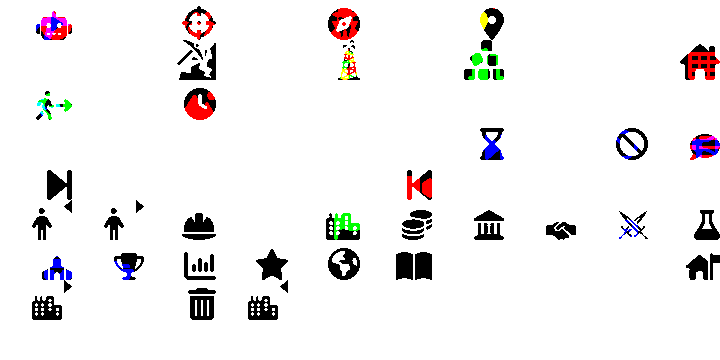
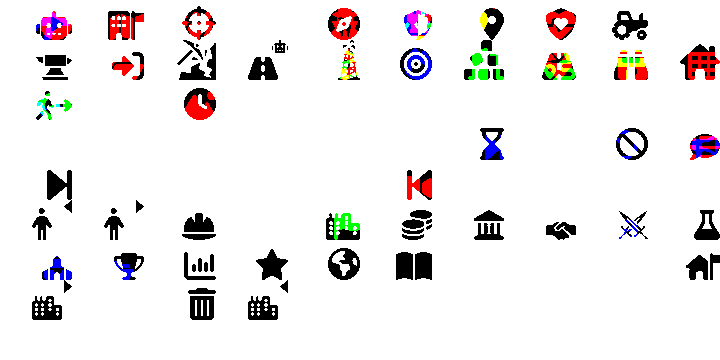
Draw the Civilization IV keys that several units share
The game's XML gives B, F, S, R, I, L, H, P, N, K, Shift+P and Alt+R to
actions of different units. Each key now shows the meaning it has for the
common case, as the Freeciv set does: found a city, fortify, sentry, build
a road or a railroad, build a farm, load, fortify until healed, ping the
map, build a trade network, build a workshop, pillage, and route to.

- SOURCES.md lists the other units' actions for each key as exceptions,
  and why the drawn meaning covers the common case.
- Warlords and the base game give each key the same meaning, so both sets
  draw all twelve keys.
- Shift+W and Alt+C stay blank: no one meaning covers the common case.
- Twelve new Font Awesome and game-icons.net icons, credited in
  SOURCES.md. N is the road with the robot of A.

Claude-Session: https://claude.ai/code/session_01U989duoKHjSn5t9U1ruejA

diff --git a/polyhost/res/overlay_sources/civ4/fetch_icons.py b/polyhost/res/overlay_sources/civ4/fetch_icons.py
@@ -43,6 +43,14 @@ ICONS = {
     "forceendturn": "fa:forward-fast",
     "wait": "fa:clock",
     # Unit orders
+    "foundcity": "fa:building-flag",
+    "fortify": "fa:shield-halved",
+    "sentry": "fa:binoculars",
+    "heal": "fa:shield-heart",
+    "loadunit": "fa:right-to-bracket",
+    "pillage": "fa:fire",
+    "ping": "fa:bullseye",
+    "routeto": "fa:route",
     "goto": "fa:location-dot",
     "automate": "fa:robot",
     "automoves": "fa:circle-play",
@@ -50,6 +58,9 @@ ICONS = {
     "explore": "fa:compass",
     "improvecity": "fa:person-digging",
     "mine": "gi:lorc/mining",
+    "road": "fa:road",
+    "farm": "fa:tractor",
+    "workshop": "gi:lorc/anvil",
     "cottage": "fa:house-chimney",
     "quarry": "fa:cubes-stacked",
     "fort": "fa:chess-rook",
@@ -97,7 +108,8 @@ ICONS = {
 
 # Sources of the composed icons, rendered as `_<stem>.png` and not drawn on a key.
 PARTS = {"_bolt": "fa:bolt", "_person": "fa:person", "_city": "fa:city",
-         "_unload": "fa:person-walking-arrow-right", "_cancel": "fa:ban"}
+         "_unload": "fa:person-walking-arrow-right", "_cancel": "fa:ban",
+         "_robot": "fa:robot"}
 
 # Key area of each icon, from civ4_bts.yaml; the default is 40 x 40.
 SIZES = {"domestic": (34, 40), "financial": (34, 40), "civics": (34, 40), "freecolony": (34, 40),
@@ -119,15 +131,19 @@ INK = {"domestic": (34, 32), "financial": (30, 30), "civics": (30, 30), "freecol
        "save": (30, 30), "load": (36, 30), "options": (32, 32), "retire": (36, 32),
        "worldbuilder": (36, 32), "espionage": (30, 34), "diplomacy": (28, 34),
        "details": (36, 28), "gamedetails": (32, 32), "chatteam": (30, 30),
-       "chatall": (30, 28), "eventlog": (30, 28), "unload": (36, 32)}
+       "chatall": (30, 28), "eventlog": (30, 28), "unload": (36, 32),
+       "foundcity": (36, 32), "fortify": (28, 32), "sentry": (34, 30), "heal": (30, 32),
+       "loadunit": (32, 30), "pillage": (28, 32), "ping": (32, 32), "routeto": (34, 32),
+       "road": (34, 30), "farm": (36, 30), "workshop": (36, 28)}
 
 # Composed icons: a glyph with a mark, or a glyph drawn twice.
-# stem -> (glyph, mark, key area). A mark is "=", "ALL", "bolt", ">" or "<".
+# stem -> (glyph, mark, key area). A mark is "=", "ALL", "bolt", "robot", ">" or "<".
 BADGED = {"gototype": ("goto", "=", (40, 40)), "gotoall": ("goto", "ALL", (40, 40)),
           "quicksave": ("save", "bolt", (30, 40)), "quickload": ("load", "bolt", (34, 40)),
           "nextcity": ("_city", ">", (40, 40)), "prevcity": ("_city", "<", (40, 40)),
           "nextunit": ("_person", ">", (40, 40)), "prevunit": ("_person", "<", (40, 40)),
-          "unloadall": ("_unload", "ALL", (40, 40)), "cancelall": ("_cancel", "ALL", (40, 40))}
+          "unloadall": ("_unload", "ALL", (40, 40)), "cancelall": ("_cancel", "ALL", (40, 40)),
+          "network": ("road", "robot", (40, 40))}
 TWICE = {"savegroup": "save"}
 
 # The ESC mark: CIV IV in Cinzel Bold (SIL OFL 1.1), centred on the whole cell.
@@ -172,6 +188,8 @@ def _chevron(right: bool, h: int = 13):
 def _mark(kind: str):
     if kind == "bolt":
         return ottd._fit(Path(OUT) / "_bolt.png", (10, 15))
+    if kind == "robot":
+        return ottd._fit(Path(OUT) / "_robot.png", (16, 13))
     if kind in "<>":
         return _chevron(kind == ">")
     if kind == "=":

diff --git a/polyhost/res/overlay_sources/civ4/SOURCES.md b/polyhost/res/overlay_sources/civ4/SOURCES.md
@@ -6,8 +6,8 @@ writes `civ4_classic.yaml` from `civ4_bts.yaml`.
 
 | Set | Loads for |
 |---|---|
-| `civ4_bts_template` (2 files, 76 keys) | Beyond the Sword: `civ4beyondsword` on Windows, `civ4beyondsword.exe` under Wine, `steam_app_8800` under Proton |
-| `civ4_classic_template` (2 files, 69 keys) | The base game and Warlords: `civilization4` and `civ4warlords` on Windows, `civilization4.exe` and `civ4warlords.exe` under Wine, `steam_app_3900` and `steam_app_3990` under Proton |
+| `civ4_bts_template` (2 files, 88 keys) | Beyond the Sword: `civ4beyondsword` on Windows, `civ4beyondsword.exe` under Wine, `steam_app_8800` under Proton |
+| `civ4_classic_template` (2 files, 81 keys) | The base game and Warlords: `civilization4` and `civ4warlords` on Windows, `civilization4.exe` and `civ4warlords.exe` under Wine, `steam_app_3900` and `steam_app_3990` under Proton |
 
 The executable names `Civilization4.exe`, `Civ4Warlords.exe` and
 `Civ4BeyondSword.exe` are from the Lutris installer for the GOG edition
@@ -33,12 +33,12 @@ that branch changed them (`git log` of each file lists only official updates).
 
 | File (Beyond the Sword) | Keys drawn |
 |---|---|
-| `BtS/Assets/XML/Units/CIV4ControlInfos.xml` | F1 to F12, Shift+F7, Alt+F1, Shift+F5, Shift+F8, Ctrl+E, Shift+D, Enter, Shift+Enter, W, Space (end turn), C, Ctrl+C, Ctrl+H, Insert, Home, End, `.`, `,`, `/`, `\`, Ctrl+`\`, Ctrl+A, Ctrl+T, Ctrl+B, Ctrl+Y, Ctrl+R, Alt+U, Alt+O, Alt+F, Ctrl+Alt+F, Alt+Shift+F, Ctrl+Left, Ctrl+Right, Ctrl+S, Ctrl+Alt+S, Ctrl+L, Ctrl+O, Alt+Q, Ctrl+W, Ctrl+Shift+H, Alt+D, Alt+Shift+D, Alt+S, Tab, Shift+Tab, Ctrl+Tab |
-| `BtS/Assets/XML/Units/CIV4MissionInfos.xml` | Space (skip the unit's turn) |
-| `Civ4/Assets/XML/Units/CIV4CommandInfos.xml` (Beyond the Sword has no copy and loads the base game's) | U, Shift+U, Delete, Backspace, Shift+Backspace |
-| `BtS/Assets/XML/Units/CIV4AutomateInfos.xml` | A, E, Ctrl+Shift+C |
-| `BtS/Assets/XML/Interface/CIV4InterfaceModeInfos.xml` | G, Ctrl+G, Alt+G, Shift+A |
-| `BtS/Assets/XML/Units/CIV4BuildInfos.xml` | M, T, Q, O, Ctrl+F, Shift+F |
+| `BtS/Assets/XML/Units/CIV4ControlInfos.xml` | F1 to F12, Shift+F7, Alt+F1, Shift+F5, Shift+F8, Ctrl+E, Shift+D, Enter, Shift+Enter, W, Space (end turn), C, Ctrl+C, Ctrl+H, Insert, Home, End, `.`, `,`, `/`, `\`, Ctrl+`\`, Ctrl+A, Ctrl+T, Ctrl+B, Ctrl+Y, Ctrl+R, Alt+U, Alt+O, Alt+F, Ctrl+Alt+F, Alt+Shift+F, Ctrl+Left, Ctrl+Right, Ctrl+S, Ctrl+Alt+S, Ctrl+L, Ctrl+O, Alt+Q, Ctrl+W, Ctrl+Shift+H, Alt+D, Alt+Shift+D, Alt+S, Tab, Shift+Tab, Ctrl+Tab, P |
+| `BtS/Assets/XML/Units/CIV4MissionInfos.xml` | Space (skip the unit's turn), B, F, H, S, Shift+P |
+| `Civ4/Assets/XML/Units/CIV4CommandInfos.xml` (Beyond the Sword has no copy and loads the base game's) | U, Shift+U, Delete, Backspace, Shift+Backspace, L |
+| `BtS/Assets/XML/Units/CIV4AutomateInfos.xml` | A, E, Ctrl+Shift+C, N |
+| `BtS/Assets/XML/Interface/CIV4InterfaceModeInfos.xml` | G, Ctrl+G, Alt+G, Shift+A, Alt+R |
+| `BtS/Assets/XML/Units/CIV4BuildInfos.xml` | M, T, Q, O, Ctrl+F, Shift+F, R, I, K |
 
 The labels follow the English text of each action's `<Description>`, from
 the game's `Assets/XML/Text/*.xml`. Four labels follow the game's own code
@@ -65,6 +65,40 @@ drawn once: Space skips the unit's turn, or ends the turn when no unit waits
 next unit (`CONTROL_ENDTURN`, `CONTROL_CYCLEUNIT`); Backspace cancels the last
 order, or stops automation (`COMMAND_CANCEL`, `COMMAND_STOP_AUTOMATION`).
 
+### Keys with more than one action
+
+The XML gives each of these keys to actions of different units. The game
+runs the action that the selected unit can do; when two can, it runs the one
+with the higher `iHotKeyPriority`. Each key is drawn with the meaning it has
+for the common case, as in the Freeciv set. The other meanings are
+exceptions: the key does that instead when such a unit is selected.
+
+| Key | Drawn | Exceptions (Beyond the Sword XML) | Why this meaning |
+|---|---|---|---|
+| B | Found a city (`MISSION_FOUND`, settler) | Bombard (siege units, ships), ranged attack (BtS only), air bomb (aircraft) | The maintainer's choice; founding is the priority-1 action |
+| F | Fortify (`MISSION_FORTIFY`, military units) | Sleep (units that cannot fortify), wake a sleeping unit (`COMMAND_WAKE`), build fishing boats (work boat) | The maintainer's choice |
+| S | Sentry (`MISSION_SENTRY`) | Sabotage (spy), air strike (aircraft), scrub fallout (worker) | The maintainer's choice |
+| R | Build a road or a railroad (`BUILD_ROAD`, `BUILD_RAILROAD`, worker) | Recon (aircraft), spread religion (automated, missionary; BtS only) | The maintainer's choice; the railroad has priority 1 once it can be built |
+| I | Build a farm (`BUILD_FARM`, worker) | Intercept (`MISSION_AIRPATROL`, fighters) | The maintainer's choice |
+| L | Load onto a transport (`COMMAND_LOAD`) | Build a lumbermill (worker on a forest) | The maintainer's choice |
+| Shift+P | Pillage (`MISSION_PILLAGE`) | Blockade (`MISSION_PLUNDER`, ships; BtS only), build a plantation or a pasture (worker) | The XML gives the key to pillage in all three games |
+| P | Ping the map (`CONTROL_PING`) | Sea patrol (ships; BtS only), paradrop (paratroopers; BtS only) | Ping is a control action: it works with any selection or none. The other two need a ship or a paratrooper |
+| H | Fortify until healed (`MISSION_HEAL`) | Build a camp (worker) | Heal applies to every wounded unit; the camp only to a worker on a tile with a camp resource |
+| N | Build a trade network (automated, `AUTOMATE_NETWORK`, worker) | Nuke (nuclear units) | Workers are common; nuclear units come only at the end of the game |
+| K | Build a workshop (`BUILD_WORKSHOP`, worker) | None that a player can use | BtS also gives K to `MISSION_DIE_ANIMATION` (text "Kill nearby spy"), but `CvSelectionGroup::canStartMission()` always returns false for it |
+| Alt+R | Build a road to a tile (`INTERFACEMODE_ROUTE_TO`, worker) | Rebase (aircraft) | As for I: the worker action is the common one |
+
+Warlords and the base game give each drawn key the same meaning. Warlords
+has no `CIV4InterfaceModeInfos.xml`, `CIV4AutomateInfos.xml` or
+`CIV4CommandInfos.xml` and loads the base game's. Their exceptions are fewer:
+B has no ranged attack, R does not spread religion, P has no sea patrol or
+paradrop, and Shift+P has no blockade. So every key above is in both sets,
+and none is marked `classic: false`.
+
+Labels: "Found a city", "Load onto a transport", "Ping the map" and "Build a
+road to a tile (route to)" rewrite the game's texts "Build City", "Load",
+"Ping" and "Route To Mode" so that they say what the key does.
+
 ### The base game and Warlords
 
 Warlords ships its own `CIV4MissionInfos.xml`, `CIV4ControlInfos.xml` and
@@ -89,36 +123,22 @@ classic set serves both, so it draws neither.
 ### Checked against
 
 The CivFanatics shortcut list (<https://www.civfanatics.com/?p=672>, read
-2026-11-04) agrees with the XML for every drawn key, with one difference: it
-gives the World Builder as Alt+W; the XML gives Ctrl+W, and the overlay draws
-Ctrl+W.
+2026-11-04) agrees with the XML for every key with one action, with one
+difference: it gives the World Builder as Alt+W; the XML gives Ctrl+W, and the
+overlay draws Ctrl+W. The keys with more than one action were checked against
+the XML and the game's code only, not against this list.
 
 ## Left out
 
-**Keys whose action depends on the selected unit or the terrain.** The XML
-gives each of these keys to two or more actions of different units, so the
-keycap cannot show one meaning:
+**Keys with no common meaning.** The XML gives each of these keys to actions
+that no one meaning covers:
 
-| Key | Actions in the Beyond the Sword XML |
-|---|---|
-| B | Build city (settler), bombard, ranged attack, air bomb |
-| F | Fortify (military units), sleep (other units), wake the unit, build fishing boats (work boat) |
-| S | Sentry, sabotage, air strike, scrub fallout (worker) |
-| P | Ping the map, sea patrol (ships), paradrop |
-| R | Build a road or a railroad (worker), recon (aircraft), spread religion automatically (missionary) |
-| I | Build a farm (irrigate, worker), intercept (fighters) |
-| L | Build a lumbermill (worker), load |
-| H | Fortify until healed, build a camp (worker) |
-| N | Build a trade network (automated, worker), nuke |
-| K | Build a workshop (worker), kill a nearby spy |
-| Shift+P | Pillage, blockade (ships), build a plantation or a pasture (worker) |
-| Shift+W | Build a windmill, watermill, well or winery (worker, by terrain and resource), whaling boats (work boat) |
-| Alt+C | Select all units, remove jungle or chop down a forest (worker) |
-| Alt+R | Route to (worker), rebase (aircraft) |
+| Key | Actions in the Beyond the Sword XML | Why it is not drawn |
+|---|---|---|
+| Shift+W | Build a windmill, watermill, well or winery (worker, by terrain and resource), whaling boats (work boat) | Four different worker builds, picked by the tile |
+| Alt+C | Select all units (`CONTROL_SELECTYUNITALL`), remove jungle or chop down a forest (worker) | All three have priority 0, and chopping a forest is a common worker action, so neither meaning covers the common case |
 
-The base game and Warlords give K, P and some others to fewer actions (P is
-only "Ping the map" there), but the classic set draws the same keys as the
-Beyond the Sword set.
+The base game and Warlords give these keys the same actions.
 
 **Other keys:**
 
@@ -171,6 +191,8 @@ Composed icons (`BADGED` and `TWICE` in `fetch_icons.py`):
 - Home and End (next and previous city), `.` and `,` (next and previous unit on
   the tile): a city or a person with a triangle pointing right or left.
 - Ctrl+Alt+S (save game, group): the floppy disk twice.
+- N (build a trade network, automated): the road with the robot of A
+  (automated improvements) at the top right.
 
 ESC shows the text CIV IV in Cinzel Bold by Natanael Gama (SIL OFL 1.1, the
 Bold instance of `ofl/cinzel/Cinzel[wght].ttf` from google/fonts at commit
@@ -266,7 +288,22 @@ row says game-icons.net (CC BY 3.0, credit to the author named).
 | `chatteam.png` | Font Awesome `comment` | Fonticons, Inc. | CC BY 4.0 |
 | `chatall.png` | Font Awesome `bullhorn` | Fonticons, Inc. | CC BY 4.0 |
 | `eventlog.png` | Font Awesome `list` | Fonticons, Inc. | CC BY 4.0 |
+| `foundcity.png` | Font Awesome `building-flag` | Fonticons, Inc. | CC BY 4.0 |
+| `fortify.png` | Font Awesome `shield-halved` | Fonticons, Inc. | CC BY 4.0 |
+| `heal.png` | Font Awesome `shield-heart` | Fonticons, Inc. | CC BY 4.0 |
+| `sentry.png` | Font Awesome `binoculars` | Fonticons, Inc. | CC BY 4.0 |
+| `loadunit.png` | Font Awesome `right-to-bracket` | Fonticons, Inc. | CC BY 4.0 |
+| `pillage.png` | Font Awesome `fire` | Fonticons, Inc. | CC BY 4.0 |
+| `ping.png` | Font Awesome `bullseye` | Fonticons, Inc. | CC BY 4.0 |
+| `road.png` | Font Awesome `road` | Fonticons, Inc. | CC BY 4.0 |
+| `routeto.png` | Font Awesome `route` | Fonticons, Inc. | CC BY 4.0 |
+| `farm.png` | Font Awesome `tractor` | Fonticons, Inc. | CC BY 4.0 |
+| `workshop.png` | game-icons.net `lorc/anvil` | Lorc | CC BY 3.0 |
+| `network.png` | Font Awesome `road` and `robot` | Fonticons, Inc. | CC BY 4.0 |
 | `program.png` | CIV IV in Cinzel Bold | Natanael Gama (The Cinzel Project Authors) | SIL OFL 1.1 |
+
+S (sentry) uses binoculars and not the Freeciv set's eye, because the eye is
+already Alt+U (enemy unit display).
 
 The files starting with `_` are the downloaded sources that `fetch_icons.py`
 turns into the composed icons above.
